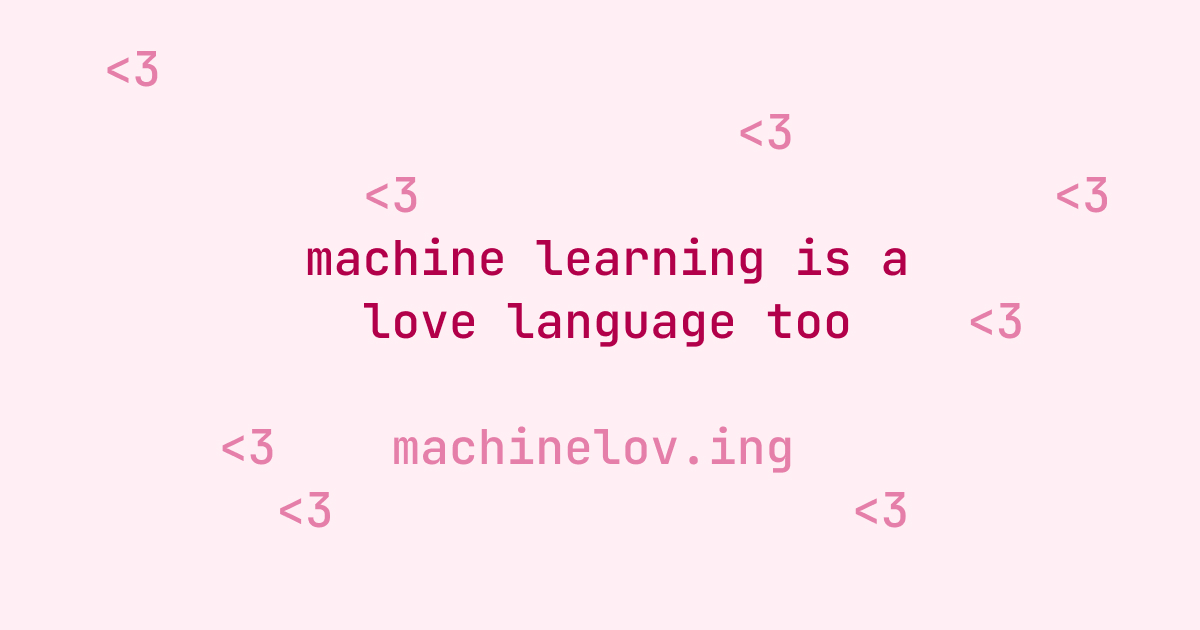
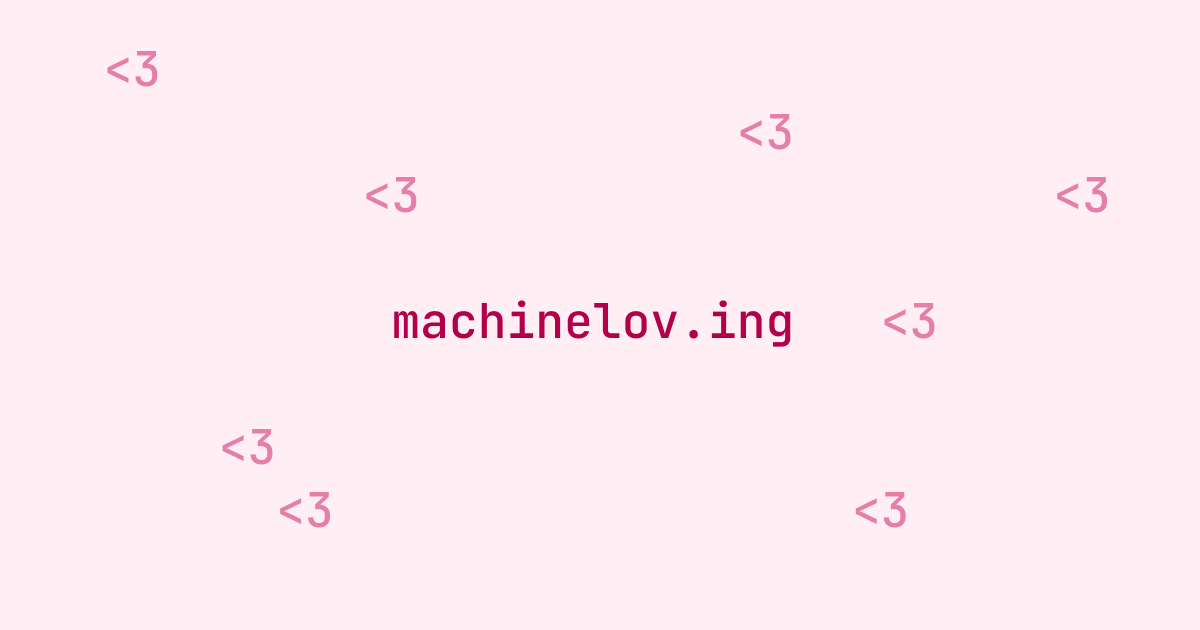
add about and update small things (last commit ??)

diff --git a/app/about/page.tsx b/app/about/page.tsx
@@ -1,0 +1,57 @@
+"use client";
+
+export default function AboutPage() {
+  return (
+    <div className="min-h-screen flex items-center justify-center p-8">
+      <div className="max-w-md">
+        <button
+          onClick={() => window.location.href = "/"}
+          className="border-2 border-current rounded-lg bg-transparent hover:-translate-y-0.5 hover:bg-[#FFCFB0] transition-all duration-200"
+          style={{ padding: "6px 10px", lineHeight: "1.2", whiteSpace: "pre", cursor: "pointer" }}
+        >
+          back
+        </button>
+        
+        <br/>
+        <br/>
+
+        <p className="mb-4">
+          website created by michelle pan.
+        </p>
+        <p>
+          valentines contributed by
+          amos you,
+          arjun banerjee,
+          chloe wen,  
+          christina farhat,  
+          danica xiong,  
+          dhruv gautam,  
+          emma guo,  
+          eshaan moorjani,  
+          gaurav tyagi,  
+          jennifer zhao,  
+          jenn grannen,
+          jimmy li,  
+          john so,  
+          kaylee george,  
+          kiran suresh,  
+          konwoo kim,  
+          lillian weng,  
+          matthew lee,  
+          max du,  
+          mehul raheja,  
+          melissa pan,  
+          riley peterlinz,  
+          ryan zhao,  
+          sebastian zhao,  
+          shiny weng,  
+          simon guo,  
+          suzanne nie,  
+          tony xia,  
+          viraj ramakrishnan, and
+          will hu.
+        </p>
+      </div>
+    </div>
+  );
+}

diff --git a/app/page.tsx b/app/page.tsx
@@ -481,6 +481,15 @@ export default function Home() {
           </div>
         )}
       </div>
+      <button
+        onClick={() => (window.location.href = "/about")}
+        className="fixed top-4 right-4 border-2 border-current rounded-lg bg-transparent hover:bg-[#FFEFF4] transition-all duration-200"
+        style={{ padding: "6px 10px", cursor: "pointer", lineHeight: 1, color: "#E57FA9"}}
+        aria-label="About"
+        type="button"
+      >
+        i
+      </button>
     </>
   );
 }
